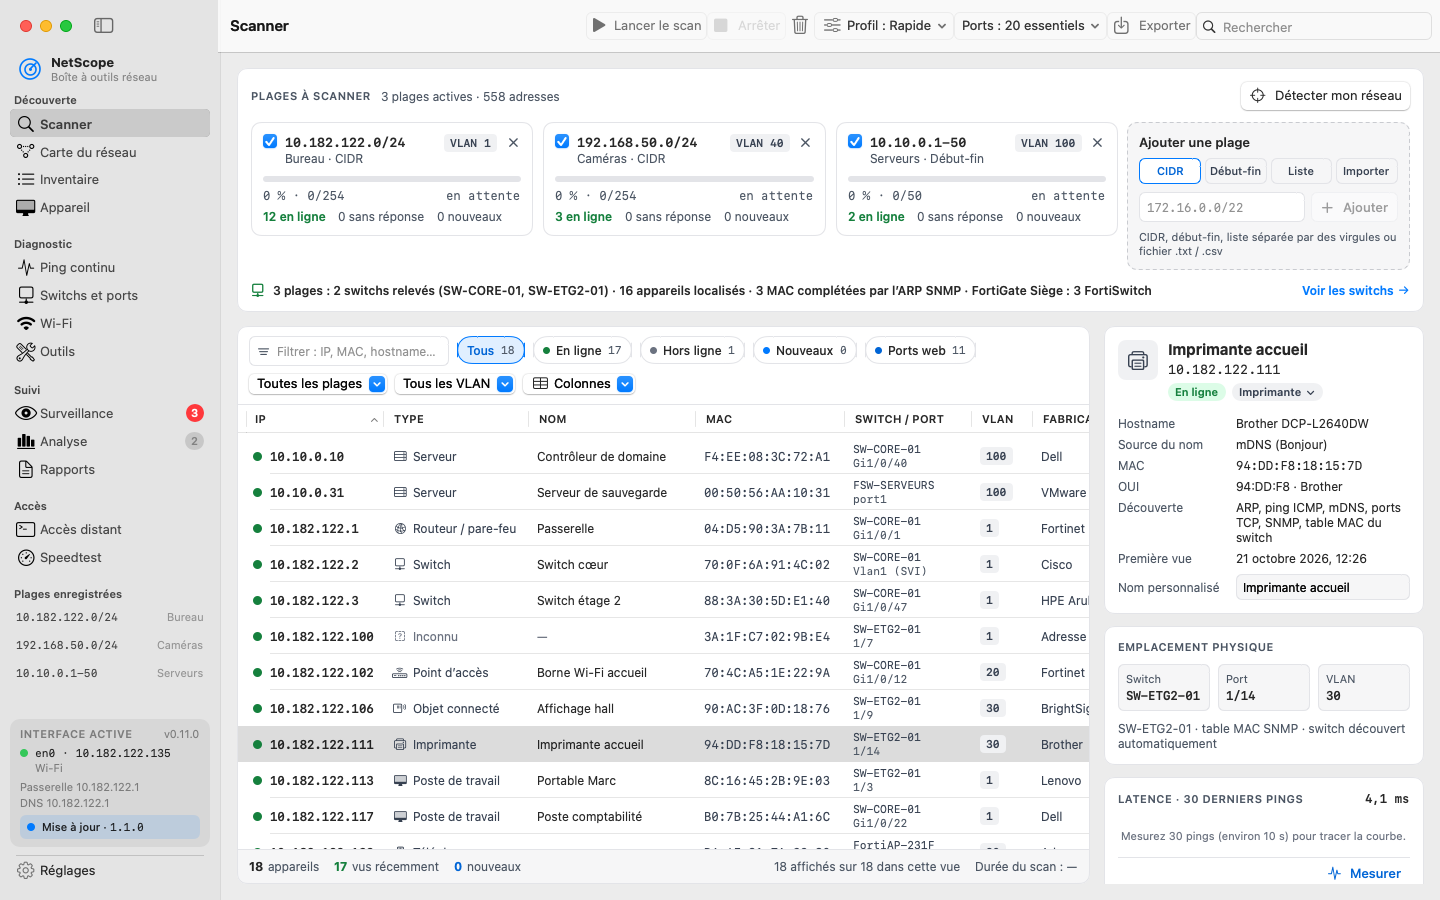
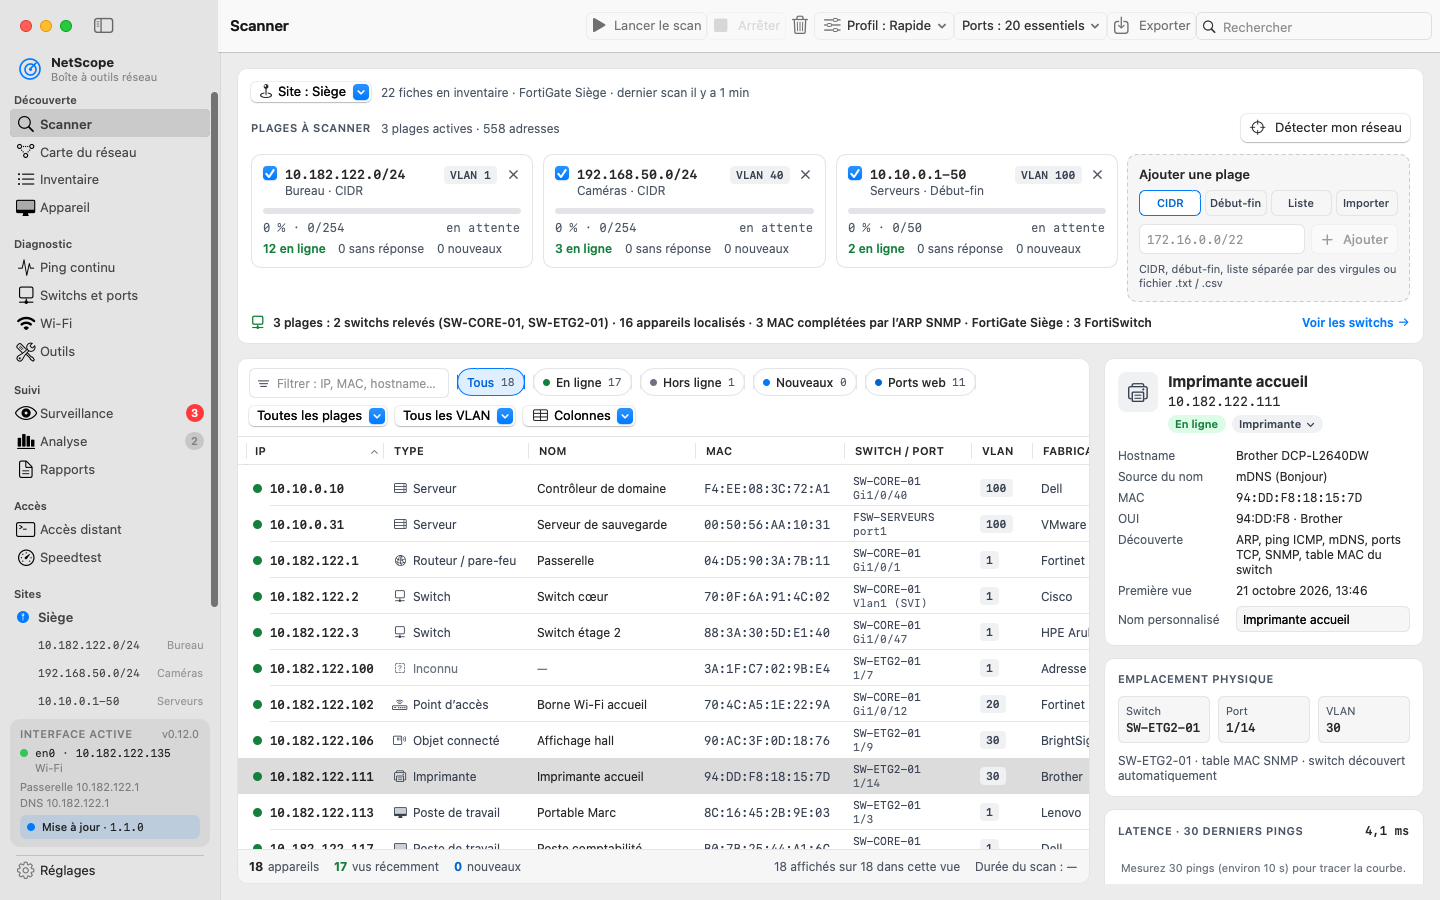
Version 0.12.0
Sites : un site par client ou par lieu avec ses plages, ses FortiGate, ses switchs SNMP et son
propre inventaire ; résultats par site ; correction de la Carte du réseau (dernier scan).

diff --git a/README.md b/README.md
@@ -8,7 +8,7 @@ surveillance, rapports et accès distant, le tout en français.
 
 ## Fonctions
 
-Version 0.11.0 : les quatorze écrans fonctionnent, au style Mac (mode sombre, petite fenêtre), avec des tableaux à colonnes réglables. Nouveau dans la 0.11.0 : une recherche multiple dans tous les modules (plusieurs mots, préfixes comme « switch:SW-ETG2 type:imprimante », « ip:10.20.0.0/16 » ou « vlan:30 », exclusion par « - », étiquettes retirables) et, dans le module Wi-Fi, les bornes FortiAP de chaque site lues par sa FortiGate en lecture seule (clients, SSID, AP voisins ou non autorisés), avec un diagnostic des canaux, des signaux faibles et des bornes surchargées. Depuis la 0.10.0 : plusieurs FortiGate, une par site, chacune avec son jeton au Trousseau et ses plages couvertes ; à la fin d’un scan, seules celles qui couvrent les plages scannées sont lues (import et export CSV de la liste, « Tester tout »). Depuis la 0.9.0 : les FortiSwitch gérés par une FortiGate (FortiLink) sont lus par l’API REST de la FortiGate, en lecture seule (jeton au Trousseau), et remplissent Switchs et ports ainsi que les colonnes Switch / Port et VLAN du Scanner, même si le réseau FortiLink n’est pas joignable depuis le Mac. Depuis la 0.8.0 : des Réglages complets (notifications choisies avec heures « Ne pas déranger », raccourcis modifiables et menus Scan, Appareil et Aller, sauvegarde automatique avec restauration, test SNMP v2c/v3, identifiants SSH et WMI, méthodes de découverte par profil) et des alertes hors du Mac par courriel et webhook Teams, Slack ou JSON. Depuis la 0.7.0 : « Capture de paquets » façon Wireshark (filtres, détail par couche, vue hexadécimale, suivi de flux, statistiques, .pcap) et « Vitesse des disques » (disques internes et externes, partages réseau, dossiers nuage) dans la Boîte à outils. Depuis la 0.6.0 : « État des services » (Microsoft 365, Azure, Apple, AWS, Google, Cloudflare… vus par leur page officielle et testés depuis votre réseau) et un groupe « Courriel » dans la Boîte à outils (santé d’un domaine sur 100, MX, listes noires, SPF/DKIM/DMARC, diagnostic SMTP, analyse d’en-têtes), avec une Recherche DNS plus complète (SOA, SRV, CAA, DNSSEC, comparaison et propagation). La suite prévue est dans
+Version 0.12.0 : les quatorze écrans fonctionnent, au style Mac (mode sombre, petite fenêtre), avec des tableaux à colonnes réglables. Nouveau dans la 0.12.0 : des sites (un par client ou par lieu) avec leurs plages, leurs FortiGate, leurs switchs SNMP et leur propre inventaire, choisis dans le Scanner ou reconnus par la passerelle (jamais par la seule IP) ; changer de site met les résultats de côté sans mélanger deux sites, même sur les mêmes plages IP. Depuis la 0.11.0 : une recherche multiple dans tous les modules (plusieurs mots, préfixes comme « switch:SW-ETG2 type:imprimante », « ip:10.20.0.0/16 » ou « vlan:30 », exclusion par « - », étiquettes retirables) et, dans le module Wi-Fi, les bornes FortiAP de chaque site lues par sa FortiGate en lecture seule (clients, SSID, AP voisins ou non autorisés), avec un diagnostic des canaux, des signaux faibles et des bornes surchargées. Depuis la 0.10.0 : plusieurs FortiGate, une par site, chacune avec son jeton au Trousseau et ses plages couvertes ; à la fin d’un scan, seules celles qui couvrent les plages scannées sont lues (import et export CSV de la liste, « Tester tout »). Depuis la 0.9.0 : les FortiSwitch gérés par une FortiGate (FortiLink) sont lus par l’API REST de la FortiGate, en lecture seule (jeton au Trousseau), et remplissent Switchs et ports ainsi que les colonnes Switch / Port et VLAN du Scanner, même si le réseau FortiLink n’est pas joignable depuis le Mac. Depuis la 0.8.0 : des Réglages complets (notifications choisies avec heures « Ne pas déranger », raccourcis modifiables et menus Scan, Appareil et Aller, sauvegarde automatique avec restauration, test SNMP v2c/v3, identifiants SSH et WMI, méthodes de découverte par profil) et des alertes hors du Mac par courriel et webhook Teams, Slack ou JSON. Depuis la 0.7.0 : « Capture de paquets » façon Wireshark (filtres, détail par couche, vue hexadécimale, suivi de flux, statistiques, .pcap) et « Vitesse des disques » (disques internes et externes, partages réseau, dossiers nuage) dans la Boîte à outils. Depuis la 0.6.0 : « État des services » (Microsoft 365, Azure, Apple, AWS, Google, Cloudflare… vus par leur page officielle et testés depuis votre réseau) et un groupe « Courriel » dans la Boîte à outils (santé d’un domaine sur 100, MX, listes noires, SPF/DKIM/DMARC, diagnostic SMTP, analyse d’en-têtes), avec une Recherche DNS plus complète (SOA, SRV, CAA, DNSSEC, comparaison et propagation). La suite prévue est dans
 [docs/A-FAIRE.md](docs/A-FAIRE.md).
 
 - **Scanner multi-plages qui se remplit tout seul** : plusieurs plages à la fois, ping ICMP

diff --git a/CHANGELOG.md b/CHANGELOG.md
@@ -1,5 +1,75 @@
 # Changements
 
+## 0.12.0 — 2026-11-04
+
+Sites : un site par client ou par lieu, avec ses plages, ses FortiGate, ses switchs SNMP et son
+propre inventaire ; on choisit le site dans le Scanner au lieu de reconstruire les plages à
+chaque fois, et deux sites ne se mélangent plus, même sur les mêmes plages IP.
+
+### Ajouté
+- **Sites** : chaque site a un nom, ses plages (libellé, VLAN), ses FortiGate et ses switchs
+  SNMP. Pas de niveau Client : le site porte au besoin le nom du client (« Clinique Exemple »,
+  « Groupe X · Laval »).
+- **Scanner** : menu « Site : <nom> ▾ » en haut des plages pour choisir un site, enregistrer
+  les plages comme site, mettre à jour le site, détecter son site ou gérer les sites. Les plages
+  modifiées et non enregistrées sont signalées.
+- **Inventaire unique à chaque site** : fiches, historique, événements de l’Analyse, archive,
+  exclusions, conflits IP, notes et types choisis à la main sont propres au site. La même IP ou
+  la même MAC sur deux sites donne deux fiches distinctes.
+- **Résultats par site** : changer de site met de côté les appareils, le bilan des switchs,
+  l’état du scan et les nouveautés, puis les retrouve au retour. Scanner, Carte, Inventaire,
+  Switchs, Wi-Fi FortiAP et Rapports ne mélangent plus deux sites.
+- **« Détecter mon site »** reconnaît le site par la MAC de la passerelle, le numéro de série
+  ou le nom de la FortiGate (le SSID aide à départager), jamais par l’adresse IP seule. Si
+  plusieurs sites ont les mêmes plages, NetScope demande, puis retient la passerelle.
+- **Réglages › Sites et plages** : tableau des sites (plages, FortiGate, switchs SNMP, appareils
+  en inventaire, dernier scan) ; ajouter, renommer, dupliquer et supprimer (avec confirmation :
+  son inventaire est supprimé aussi) ; « Créer depuis les FortiGate » ; import et export CSV
+  `site;plages;fortigate`, sans aucun secret.
+- **Réglages › Switchs** : chaque switch SNMP (non Fortinet) peut être associé à aucun, un ou
+  plusieurs sites.
+- **Switchs et ports** : bandeau « Site : <nom> · N switchs » avec « Afficher tous les
+  switchs ».
+
+### Modifié
+- **Barre latérale** : la section « Sites » remplace « Plages enregistrées » ; le site actif y
+  est marqué avec ses plages, et un clic change de site.
+- **FortiGate** : celles du site actif sont lues. Le choix par plage IP (0.10.0) ne sert plus
+  que sans site actif.
+- **Switchs et ports** : seuls les switchs du site actif sont affichés et interrogés. Un switch
+  sans site n’apparaît que s’il est dans les plages du dernier scan ; le relevé de fin de scan
+  n’interroge jamais un switch associé à un autre site.
+- **Inventaire et Rapports** : le nom du site actif est en évidence et figure dans l’en-tête du
+  rapport. La recherche `site:` vise le vrai site.
+- **Migration sans perte** : les plages, l’inventaire (avec son historique et les types choisis
+  à la main), les noms, les notes et la FortiGate actuels deviennent ceux de « Site principal ».
+  L’ancien inventaire est gardé en copie de sécurité (`inventory.avant-sites.json`). Les
+  sauvegardes incluent les inventaires de tous les sites.
+
+### Corrigé
+- **Carte du réseau** : elle ne dessine plus que les appareils vus pendant le dernier scan,
+  dans ses plages ; les appareils et switchs d’un scan précédent (autre plage ou autre site)
+  n’y apparaissent plus. La case « Scans précédents » les remet.
+- **Switchs et ports** : un switch SNMP hors des plages scannées (pas un Fortinet) n’est plus
+  affiché avec le site en cours.
+- **Analyse et Carte** : « Vu : Maintenant » seulement pour un appareil vu il y a moins de
+  10 minutes ; « dernier scan » donne la date quand le scan n’est pas du jour.
+- **Rapports** : la passerelle du Mac n’est notée que si elle est dans les plages du site.
+
+### Limites
+- Les sites n’ont pas encore été essayés sur les vrais sites de Dany : « Détecter mon site »,
+  la migration d’un vrai inventaire et l’import CSV sont vérifiés sur des données de
+  démonstration et par les tests.
+- La détection a besoin d’avoir vu la passerelle (MAC apprise lors d’un scan du site) ou d’une
+  FortiGate joignable ; sur un réseau jamais scanné et sans FortiGate, il faut choisir le site
+  à la main.
+- Changer de site ou supprimer le site actif est refusé pendant une interrogation des switchs
+  ou une lecture FortiGate : attendre la fin ou l’arrêter.
+- Supprimer un site supprime son inventaire (la copie de sécurité de la migration et les
+  sauvegardes automatiques restent).
+- Le fichier CSV ne contient ni jeton ni communauté SNMP : ils restent au Trousseau et sont à
+  saisir sur un autre Mac.
+
 ## 0.11.0 — 2026-11-04
 
 Recherche multiple dans tous les modules et Wi-Fi Fortinet : on combine plusieurs critères

diff --git a/docs/A-FAIRE.md b/docs/A-FAIRE.md
@@ -5,11 +5,11 @@
 
 ## Priorités (revues le 4 novembre 2026)
 
-Notes 1 à 5 : livrées dans la 0.3.0 ; note 18 dans la 0.3.1 ; notes 8, 19, 20 et 9 dans la 0.4.0 ; types Console de jeu et Domotique dans la 0.4.1 ; notes 12, 21, 17 et 16 dans la 0.5.0 ; notes 15 et 14 dans la 0.6.0 ; notes 7 et 22 dans la 0.7.0 ; notes 13 et 23 dans la 0.8.0 ; note 24 dans la 0.9.0 ; note 25 dans la 0.10.0 ; notes 26 et 27 dans la 0.11.0.
+Notes 1 à 5 : livrées dans la 0.3.0 ; note 18 dans la 0.3.1 ; notes 8, 19, 20 et 9 dans la 0.4.0 ; types Console de jeu et Domotique dans la 0.4.1 ; notes 12, 21, 17 et 16 dans la 0.5.0 ; notes 15 et 14 dans la 0.6.0 ; notes 7 et 22 dans la 0.7.0 ; notes 13 et 23 dans la 0.8.0 ; note 24 dans la 0.9.0 ; note 25 dans la 0.10.0 ; notes 26 et 27 dans la 0.11.0 ; note 28 et correction de la Carte dans la 0.12.0.
 
-1. **0.11.x, retours d'essai** (0.8.1 : plantage de Vitesse des disques sur le NAS corrigé ; 0.9.0 : FortiGate essayée avec succès ; 0.10.0 : plusieurs FortiGate à essayer ; 0.11.0 : recherche multiple et FortiAP à essayer) : essais réels de la 0.3.x (localisation, DHCP, capture,
+1. **0.12.x, retours d'essai** (0.8.1 : plantage de Vitesse des disques sur le NAS corrigé ; 0.9.0 : FortiGate essayée avec succès ; 0.10.0 : plusieurs FortiGate à essayer ; 0.11.0 : recherche multiple et FortiAP à essayer ; 0.12.0 : sites à essayer) : essais réels de la 0.3.x (localisation, DHCP, capture,
    notifications, VNC, mise à jour), de la 0.4.0 (menus de colonnes, type, ports, sombre) et
-   des 0.5.0 à 0.8.0 (voir ci-dessous) ; 0.11.1 au besoin.
+   des 0.5.0 à 0.8.0 (voir ci-dessous) ; 0.12.1 au besoin.
 2. ~~**0.5.0, diagnostic du poste et du réseau local**~~ : livrée le 4 novembre 2026
    (notes 12, 21, 17 et 16) ; essais réels à faire (PoE sur une vraie switch, SNMP, M-Lab,
    LibreSpeed, Ookla, bouton Installer).
@@ -27,8 +27,9 @@ Notes 1 à 5 : livrées dans la 0.3.0 ; note 18 dans la 0.3.1 ; notes 8, 19, 20 
 8. ~~**0.11.0, recherche et Wi-Fi Fortinet**~~ : livrée le 4 novembre 2026 (notes 26 et 27) ;
    essai réel à faire sur les FortiGate et bornes FortiAP de Dany (droit « WiFi & Switch
    Controller », clients, AP voisins, sondes) et de la recherche sur un vrai scan.
-9. **0.12.0, sites** : note 28 (préréglages de site dans le Scanner, switchs SNMP associés à un
-   site, plusieurs sites sur les mêmes plages IP) et correction de la Carte (dernier scan seulement).
+9. ~~**0.12.0, sites**~~ : livrée le 4 novembre 2026 (note 28 et correction de la Carte,
+   dernier scan seulement) ; essai réel à faire sur les sites de Dany (« Détecter mon site »,
+   migration de l'inventaire, import CSV, switchs SNMP associés).
 10. **Phases 2 à 4, ordre libre** : notes 6 (RustDesk), 10 (Inventaire), 11 (Ping continu).
 
 ## 1. Wi-Fi : « Autoriser la localisation » n'ouvre pas la fenêtre d'autorisation
@@ -542,6 +543,9 @@ des bornes FortiAP (droit « WiFi & Switch Controller » en lecture).
 - Droit « WiFi » en lecture à ajouter au profil API si nécessaire.
 
 ## 28. Sites : préréglages du Scanner, switchs associés, mêmes plages sur plusieurs sites (demande de Dany)
+
+**Livrée dans la 0.12.0** (4 novembre 2026), avec la correction de la Carte du réseau (dernier
+scan seulement) ; essai réel à faire sur les sites de Dany (détection, migration, import CSV).
 
 « Je voudrais avoir des presets de site dans le Scanner, car je delete et reconstruis à chaque
 fois. » « Dans Switchs et ports, il affiche aussi la switch qui n'est pas dans le range du scan
